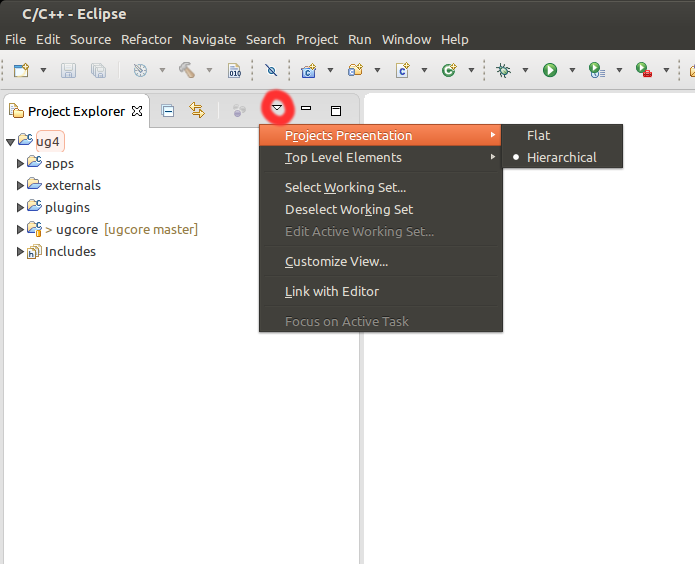
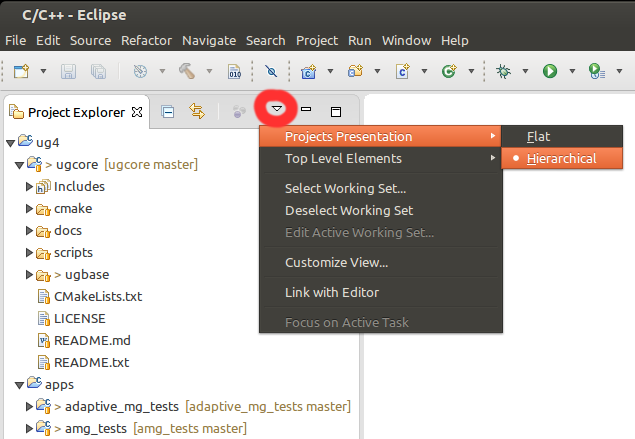
updated eclipse-import documentation

diff --git a/ughubProjectFileGenerator.py b/ughubProjectFileGenerator.py
@@ -106,10 +106,11 @@ def GenerateEclipseProjectFiles(rootDir, projectName, overwriteFiles):
 		codecs.open(filename, "w", 'utf-8', errors="replace").write(fileContents)
 
 	print(	"Eclipse project files generated.")
+	print(	"Execute the following steps to import or update your project in Eclipse:")
 	print(	"  - Open Eclipse,\n"
 			"  - Click 'File->Import...->General->Existing Project Into Workspace'\n"
-			"  - Choose ug4's root directory, select all projects (selected by default),\n"
-			"    and enable the option 'Search for nested projects' only.\n"
+			"  - Choose ug4's root directory, and enable the options 'Search for nested projects'\n"
+			"    and 'Hide projects that already exist in the workspace'.\n"
 			"  - From Eclipse MARS on (Eclipse v4.5) you may activate the option\n"
 			"    'Project Presentation->Hierarchical' in the dropdown menu of the 'Project Explorer'.")
 
